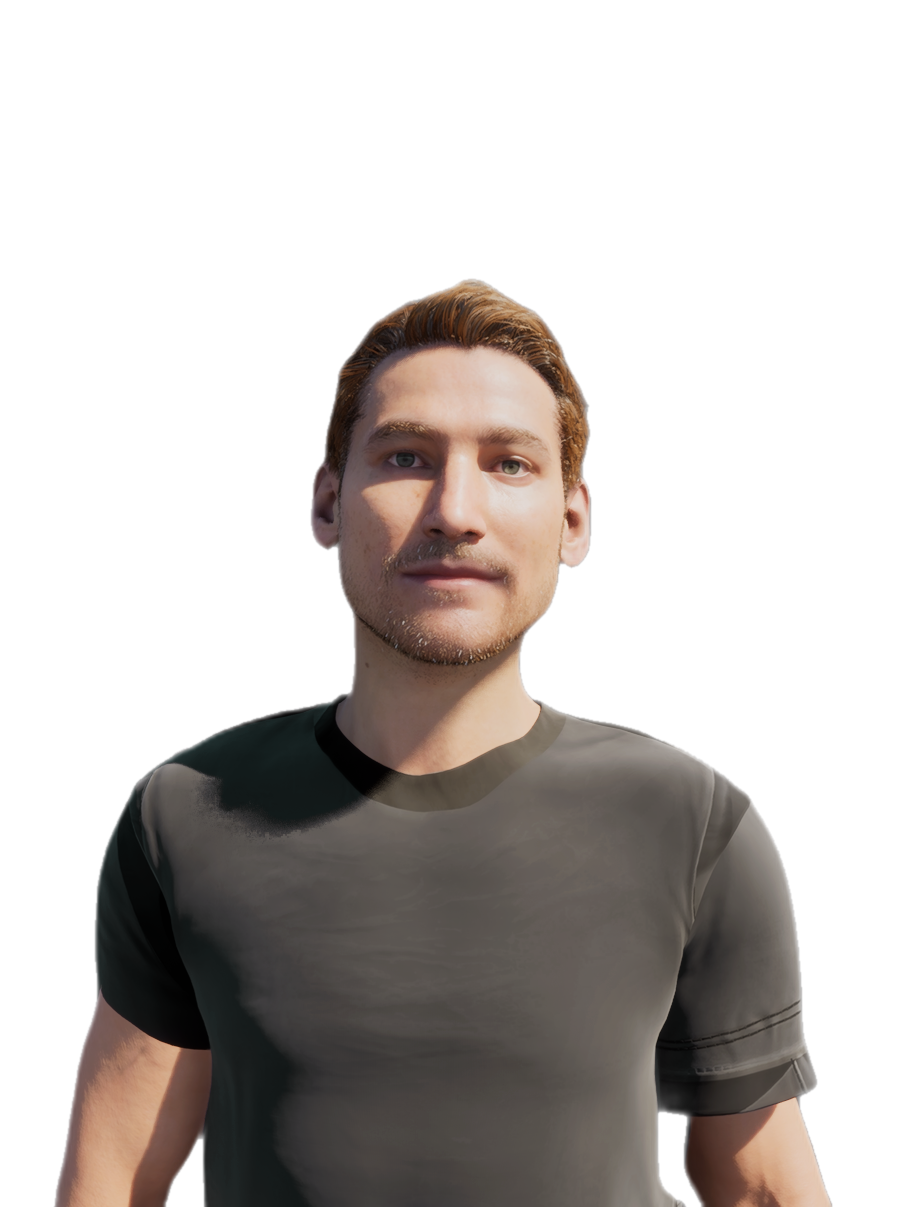
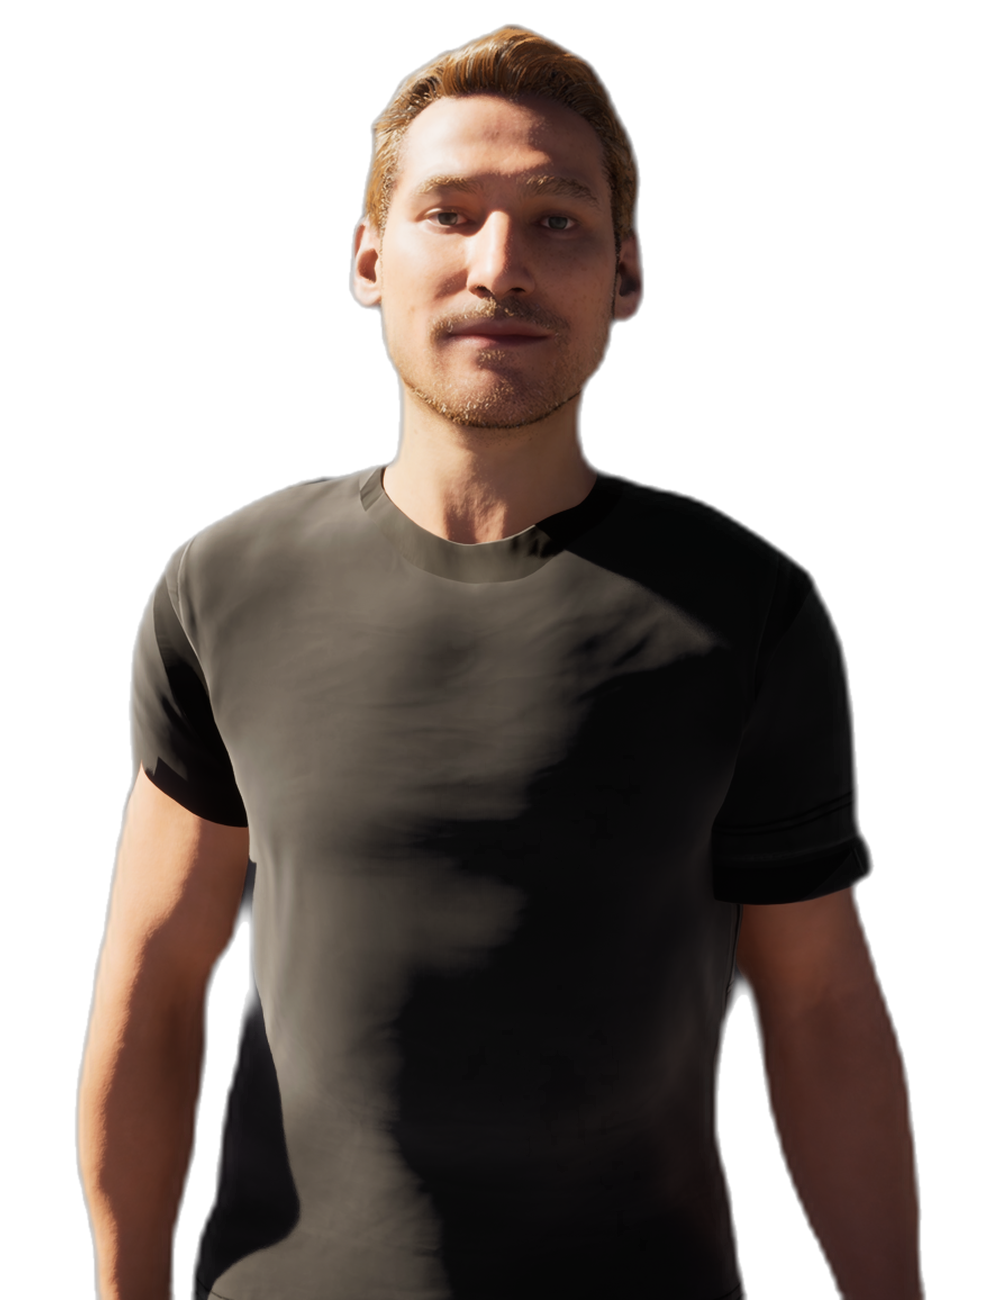
Add Fatima to the AI Human lineup with new official transparent renders
Replaces Nasser/Julia/Jhonny with updated official transparent PNG
renders and adds Fatima as the fourth official ambassador (Nasser,
Fatima, Julia, Jhonny). Restyles the "Meet the Ambassadors" gallery
with premium card framing (border, shadow, orange hover glow) for a
4-up grid, and fixes NasserFigure's next/image `sizes` so grid cards
request appropriately small images instead of inheriting the hero's
oversized 45vw hint.

diff --git a/components/home/AmbassadorsShowcase.tsx b/components/home/AmbassadorsShowcase.tsx
@@ -47,20 +47,21 @@ export default function AmbassadorsShowcase() {
           initial="hidden"
           whileInView="show"
           viewport={inView}
-          className="mt-16 grid grid-cols-1 gap-10 sm:grid-cols-3 sm:gap-8"
+          className="mt-16 grid grid-cols-2 gap-6 sm:gap-8 lg:grid-cols-4 lg:gap-6"
         >
           {AMBASSADORS.map((a) => (
             <motion.div
               key={a.id}
               variants={staggerItem}
-              className="flex flex-col items-center"
+              className="group flex flex-col items-center rounded-3xl border border-mist/10 bg-mist/[0.03] p-5 transition-all duration-300 hover:-translate-y-1 hover:border-accent/30 hover:bg-mist/[0.05] hover:shadow-[0_0_50px_-12px_rgba(255,90,0,0.35)] sm:p-6"
             >
               <NasserFigure
                 hologram
                 media={a.media}
                 name={a.name}
                 role=""
-                className="aspect-[3/4] w-full max-w-xs"
+                className="aspect-[3/4] w-full"
+                sizes="(max-width: 640px) 45vw, (max-width: 1024px) 30vw, 20vw"
               />
               <span className="mt-5 font-display text-sm font-semibold tracking-[0.3em] text-mist/85">
                 {a.name.toUpperCase()}

diff --git a/components/home/NasserFigure.tsx b/components/home/NasserFigure.tsx
@@ -17,6 +17,8 @@ type NasserFigureProps = {
   /** Extra classes for the outer container (sizing). */
   className?: string;
   priority?: boolean;
+  /** `sizes` for the underlying next/image `fill` — match the actual rendered width. */
+  sizes?: string;
 };
 
 // Feathers all four edges a few percent into transparency, dissolving any hard
@@ -46,6 +48,7 @@ export default function NasserFigure({
   role = NASSER.role,
   className = "",
   priority = false,
+  sizes = "(max-width: 1024px) 90vw, 45vw",
 }: NasserFigureProps) {
   const [videoFailed, setVideoFailed] = useState(false);
   const [imageFailed, setImageFailed] = useState(false);
@@ -87,7 +90,7 @@ export default function NasserFigure({
           alt={role ? `${name} — ${role}` : name}
           fill
           priority={priority}
-          sizes="(max-width: 1024px) 90vw, 45vw"
+          sizes={sizes}
           style={maskStyle}
           className={mediaClass}
           onError={() => setImageFailed(true)}

diff --git a/lib/content.ts b/lib/content.ts
@@ -318,6 +318,11 @@ export const AMBASSADORS: Ambassador[] = [
     media: NASSER.media,
   },
   {
+    id: "fatima",
+    name: "Fatima",
+    media: { available: true, image: "/fatima.png" },
+  },
+  {
     id: "julia",
     name: "Julia",
     media: { available: true, image: "/julia.png" },
